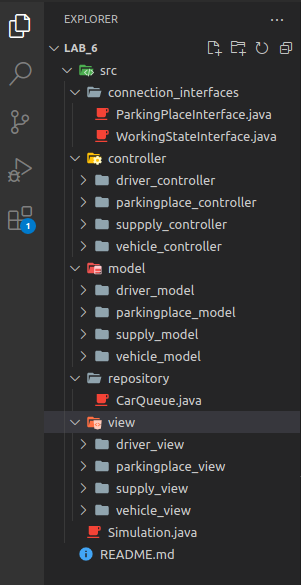
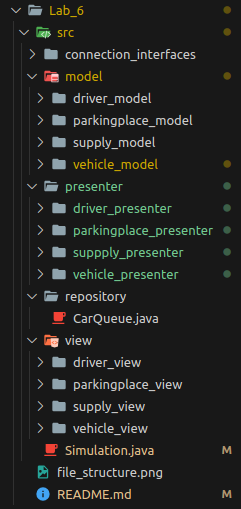
Refactor project file names to represent MVP model.

diff --git a/Lab_6/src/presenter/suppply_presenter/ParkingPresenter.java b/Lab_6/src/presenter/suppply_presenter/ParkingPresenter.java
@@ -1,13 +1,14 @@
-package controller.suppply_controller;
+package presenter.suppply_presenter;
 
 import java.util.List;
 import java.util.Random;
 
 import connection_interfaces.WorkingStateInterface;
-import controller.parkingplace_controller.*;
-import controller.parkingplace_controller.ElectricParkingPlaceController;
 import model.supply_model.*;
 import model.vehicle_model.*;
+import presenter.parkingplace_presenter.DisabilityParkingPlacePresenter;
+import presenter.parkingplace_presenter.ElectricParkingPlacePresenter;
+import presenter.parkingplace_presenter.ParkingPlacePresenter;
 import model.driver_model.Driver;
 import model.parkingplace_model.*;
 import view.parkingplace_view.*;
@@ -15,27 +16,27 @@ import view.driver_view.*;
 import view.vehicle_view.*;
 import view.supply_view.*;
 
-public class ParkingController implements WorkingStateInterface {
+public class ParkingPresenter implements WorkingStateInterface {
 
     private PaymentTerminalView paymentTerminalView;
-    private PaymentTerminalController paymentTerminalController;
+    private PaymentTerminalPresenter paymentTerminalController;
 
     private ElevatorView elevatorView;
-    private ElevatorController elevatorController;
+    private ElevatorPresenter elevatorController;
 
     private GateView gateView;
-    private GateController gateController;
+    private GatePresenter gateController;
 
     private ParkingPlaceView parkingPlaceView;
-    private ParkingPlaceController parkingPlaceController;
+    private ParkingPlacePresenter parkingPlaceController;
 
     private ElectricParkingPlaceView electricParkingPlaceView;
-    private ElectricParkingPlaceController electricParkingPlaceController;
+    private ElectricParkingPlacePresenter electricParkingPlaceController;
 
-    private DisabilityParkingPlaceController disabilityParkingPlaceController;
+    private DisabilityParkingPlacePresenter disabilityParkingPlaceController;
 
     private LevelView levelView;
-    private LevelController levelController;
+    private LevelPresenter levelController;
 
     private CarView carView;
     private DriverView driverView;
@@ -43,29 +44,29 @@ public class ParkingController implements WorkingStateInterface {
     private Parking parking;
     private ParkingView parkingView;
 
-    public ParkingController(Parking parking, ParkingView parkingView) {
+    public ParkingPresenter(Parking parking, ParkingView parkingView) {
         this.parking = parking;
         this.parkingView = parkingView;
 
         paymentTerminalView = new PaymentTerminalView();
-        paymentTerminalController = new PaymentTerminalController(parking.getPaymentTerminal(), paymentTerminalView);
+        paymentTerminalController = new PaymentTerminalPresenter(parking.getPaymentTerminal(), paymentTerminalView);
 
         elevatorView = new ElevatorView();
-        elevatorController = new ElevatorController(parking.getElevator(), elevatorView);
+        elevatorController = new ElevatorPresenter(parking.getElevator(), elevatorView);
 
         gateView = new GateView();
-        gateController = new GateController(parking.getGate(), gateView);
+        gateController = new GatePresenter(parking.getGate(), gateView);
 
         parkingPlaceView = new ParkingPlaceView();
-        parkingPlaceController = new ParkingPlaceController(null, parkingPlaceView);
+        parkingPlaceController = new ParkingPlacePresenter(null, parkingPlaceView);
 
         electricParkingPlaceView = new ElectricParkingPlaceView();
-        electricParkingPlaceController = new ElectricParkingPlaceController(null, electricParkingPlaceView);
+        electricParkingPlaceController = new ElectricParkingPlacePresenter(null, electricParkingPlaceView);
 
-        disabilityParkingPlaceController = new DisabilityParkingPlaceController(null);
+        disabilityParkingPlaceController = new DisabilityParkingPlacePresenter(null);
 
         levelView = new LevelView();
-        levelController = new LevelController(null, levelView);
+        levelController = new LevelPresenter(null, levelView);
 
         carView = new CarView();
 

diff --git a/Lab_6/src/Simulation.java b/Lab_6/src/Simulation.java
@@ -1,9 +1,9 @@
 import java.util.Random;
 import java.util.concurrent.TimeUnit;
 
-import controller.suppply_controller.ParkingController;
 import model.driver_model.*;
 import model.vehicle_model.*;
+import presenter.suppply_presenter.ParkingPresenter;
 import repository.CarQueue;
 import view.supply_view.ParkingView;
 import view.vehicle_view.CarView;
@@ -24,7 +24,7 @@ public class Simulation {
 
     public static final int averageTime = 80;
 
-    private static ParkingController parkingController;
+    private static ParkingPresenter parkingPresenter;
 
     public static void main(String[] args) throws InterruptedException {
         String[] names = { "Dan", "Steve", "Peter", "Andy", "Matthew", "Paul", "Robert", "Angelo" };
@@ -36,7 +36,7 @@ public class Simulation {
 
         Parking parking = new Parking(gate, elevator, paymentTerminal, carQueue);
         ParkingView parkingView = new ParkingView();
-        parkingController = new ParkingController(parking, parkingView);
+        parkingPresenter = new ParkingPresenter(parking, parkingView);
 
         CarView carView = new CarView();
 
@@ -67,7 +67,7 @@ public class Simulation {
             if (entranceTime <= incomePercent * 100) {
                 parking.getCarQueue().addCar(addableCar);
                 System.out.println("\n");
-                if (parkingController.parkTheCar() == 1) {
+                if (parkingPresenter.parkTheCar() == 1) {
                     parking.getCarQueue().removeCar();
                 }
                 System.out.println("\n");
@@ -75,16 +75,16 @@ public class Simulation {
                 System.out.println();
             } else {
                 if (parking.getCars().size() != 0) {
-                    leavingCar = parkingController.removeTheCar();
+                    leavingCar = parkingPresenter.removeTheCar();
                     if (leavingCar instanceof ElectricCar) {
                         System.out.println("\n");
                         TimeUnit.MILLISECONDS.sleep(1000);
-                        parkingController.supplyTheChargers(parking.getLevels());
+                        parkingPresenter.supplyTheChargers(parking.getLevels());
                         TimeUnit.MILLISECONDS.sleep(1000);
                     }
                     TimeUnit.MILLISECONDS.sleep(1000);
                     System.out.println("\n");
-                    parkingController.getPaymentTerminalView()
+                    parkingPresenter.getPaymentTerminalView()
                             .printCurrentCashAmount(parking.getPaymentTerminal().getCashAmount());
                     System.out.println();
                 }
@@ -197,7 +197,7 @@ public class Simulation {
 
         System.out.println();
         while (!parking.getCarQueue().isEmptyOfCars()) {
-            parkingController.parkTheCar();
+            parkingPresenter.parkTheCar();
             parking.getCarQueue().removeCar();
             System.out.println();
         }

diff --git a/Lab_6/src/presenter/parkingplace_presenter/DisabilityParkingPlacePresenter.java b/Lab_6/src/presenter/parkingplace_presenter/DisabilityParkingPlacePresenter.java
@@ -1,25 +1,25 @@
-package controller.parkingplace_controller;
+package presenter.parkingplace_presenter;
 
 import connection_interfaces.ParkingPlaceInterface;
-import controller.driver_controller.DriverController;
-import controller.vehicle_controller.DisabilityCarController;
 import model.parkingplace_model.DisabilityParkingPlace;
 import model.vehicle_model.Car;
 import model.vehicle_model.DisabilityCar;
+import presenter.driver_presenter.DriverPresenter;
+import presenter.vehicle_presenter.DisabilityCarPresenter;
 import view.driver_view.DriverView;
 import view.vehicle_view.DisabilityCarView;
 
-public class DisabilityParkingPlaceController implements ParkingPlaceInterface {
+public class DisabilityParkingPlacePresenter implements ParkingPlaceInterface {
 
     private DriverView driverView = new DriverView();
-    private DriverController driverController = new DriverController(null, driverView);
+    private DriverPresenter driverController = new DriverPresenter(null, driverView);
 
     private DisabilityCarView disabilityCarView = new DisabilityCarView();
-    private DisabilityCarController disabilityCarController = new DisabilityCarController(null, disabilityCarView);
+    private DisabilityCarPresenter disabilityCarController = new DisabilityCarPresenter(null, disabilityCarView);
 
     private DisabilityParkingPlace disabilityParkingPlace;
 
-    public DisabilityParkingPlaceController(DisabilityParkingPlace disabilityParkingPlace) {
+    public DisabilityParkingPlacePresenter(DisabilityParkingPlace disabilityParkingPlace) {
         this.disabilityParkingPlace = disabilityParkingPlace;
     }
 

diff --git a/Lab_6/src/presenter/suppply_presenter/PaymentTerminalPresenter.java b/Lab_6/src/presenter/suppply_presenter/PaymentTerminalPresenter.java
@@ -1,20 +1,20 @@
-package controller.suppply_controller;
+package presenter.suppply_presenter;
 
-import controller.driver_controller.DriverController;
 import model.driver_model.Driver;
 import model.supply_model.PaymentTerminal;
+import presenter.driver_presenter.DriverPresenter;
 import view.driver_view.DriverView;
 import view.supply_view.PaymentTerminalView;
 
-public class PaymentTerminalController {
+public class PaymentTerminalPresenter {
 
     private DriverView driverView = new DriverView();
-    private DriverController driverController = new DriverController(null, driverView);
+    private DriverPresenter driverController = new DriverPresenter(null, driverView);
 
     private PaymentTerminal paymentTerminal;
     private PaymentTerminalView paymentTerminalView;
 
-    public PaymentTerminalController(PaymentTerminal paymentTerminal, PaymentTerminalView paymentTerminalView) {
+    public PaymentTerminalPresenter(PaymentTerminal paymentTerminal, PaymentTerminalView paymentTerminalView) {
         this.paymentTerminal = paymentTerminal;
         this.paymentTerminalView = paymentTerminalView;
     }

diff --git a/Lab_6/src/presenter/parkingplace_presenter/ElectricParkingPlacePresenter.java b/Lab_6/src/presenter/parkingplace_presenter/ElectricParkingPlacePresenter.java
@@ -1,4 +1,4 @@
-package controller.parkingplace_controller;
+package presenter.parkingplace_presenter;
 
 import connection_interfaces.ParkingPlaceInterface;
 import model.parkingplace_model.ElectricParkingPlace;
@@ -7,14 +7,14 @@ import model.vehicle_model.ElectricCar;
 import view.parkingplace_view.ElectricParkingPlaceView;
 import view.vehicle_view.ElectricCarView;
 
-public class ElectricParkingPlaceController implements ParkingPlaceInterface {
+public class ElectricParkingPlacePresenter implements ParkingPlaceInterface {
 
     ElectricCarView electricCarView = new ElectricCarView();
 
     private ElectricParkingPlace electricParkingPlace;
     private ElectricParkingPlaceView electricParkingPlaceView;
 
-    public ElectricParkingPlaceController(ElectricParkingPlace electricParkingPlace,
+    public ElectricParkingPlacePresenter(ElectricParkingPlace electricParkingPlace,
             ElectricParkingPlaceView electricParkingPlaceView) {
         this.electricParkingPlace = electricParkingPlace;
         this.electricParkingPlaceView = electricParkingPlaceView;

diff --git a/Lab_6/src/presenter/parkingplace_presenter/ParkingPlacePresenter.java b/Lab_6/src/presenter/parkingplace_presenter/ParkingPlacePresenter.java
@@ -1,16 +1,16 @@
-package controller.parkingplace_controller;
+package presenter.parkingplace_presenter;
 
 import connection_interfaces.ParkingPlaceInterface;
 import model.parkingplace_model.ParkingPlace;
 import model.vehicle_model.Car;
 import view.parkingplace_view.ParkingPlaceView;
 
-public class ParkingPlaceController implements ParkingPlaceInterface {
+public class ParkingPlacePresenter implements ParkingPlaceInterface {
 
     private ParkingPlace parkingPlace;
     private ParkingPlaceView parkingPlaceView;
 
-    public ParkingPlaceController(ParkingPlace parkingPlace, ParkingPlaceView parkingPlaceView) {
+    public ParkingPlacePresenter(ParkingPlace parkingPlace, ParkingPlaceView parkingPlaceView) {
         this.parkingPlace = parkingPlace;
         this.parkingPlaceView = parkingPlaceView;
     }

diff --git a/Lab_6/src/presenter/vehicle_presenter/DisabilityCarPresenter.java b/Lab_6/src/presenter/vehicle_presenter/DisabilityCarPresenter.java
@@ -1,14 +1,14 @@
-package controller.vehicle_controller;
+package presenter.vehicle_presenter;
 
 import model.vehicle_model.DisabilityCar;
 import view.vehicle_view.DisabilityCarView;
 
-public class DisabilityCarController {
+public class DisabilityCarPresenter {
 
     private DisabilityCar disabilityCar;
     private DisabilityCarView disabilityCarView;
 
-    public DisabilityCarController(DisabilityCar disabilityCar, DisabilityCarView disabilityCarView) {
+    public DisabilityCarPresenter(DisabilityCar disabilityCar, DisabilityCarView disabilityCarView) {
         this.disabilityCar = disabilityCar;
         this.disabilityCarView = disabilityCarView;
     }

diff --git a/Lab_6/src/presenter/suppply_presenter/ElevatorPresenter.java b/Lab_6/src/presenter/suppply_presenter/ElevatorPresenter.java
@@ -1,16 +1,16 @@
-package controller.suppply_controller;
+package presenter.suppply_presenter;
 
 import model.supply_model.Elevator;
 import model.supply_model.Level;
 import model.vehicle_model.Car;
 import view.supply_view.ElevatorView;
 
-public class ElevatorController {
+public class ElevatorPresenter {
 
     private Elevator elevator;
     private ElevatorView elevatorView;
 
-    public ElevatorController(Elevator elevator, ElevatorView elevatorView) {
+    public ElevatorPresenter(Elevator elevator, ElevatorView elevatorView) {
         this.elevator = elevator;
         this.elevatorView = elevatorView;
     }

diff --git a/Lab_6/src/presenter/suppply_presenter/GatePresenter.java b/Lab_6/src/presenter/suppply_presenter/GatePresenter.java
@@ -1,15 +1,15 @@
-package controller.suppply_controller;
+package presenter.suppply_presenter;
 
 import connection_interfaces.WorkingStateInterface;
 import model.supply_model.Gate;
 import view.supply_view.GateView;
 
-public class GateController implements WorkingStateInterface {
+public class GatePresenter implements WorkingStateInterface {
 
     private Gate gate;
     private GateView gateView;
 
-    public GateController(Gate gate, GateView gateView) {
+    public GatePresenter(Gate gate, GateView gateView) {
         this.gate = gate;
         this.gateView = gateView;
     }

diff --git a/Lab_6/src/presenter/suppply_presenter/LevelPresenter.java b/Lab_6/src/presenter/suppply_presenter/LevelPresenter.java
@@ -1,4 +1,4 @@
-package controller.suppply_controller;
+package presenter.suppply_presenter;
 
 import java.util.List;
 
@@ -6,12 +6,12 @@ import model.parkingplace_model.ParkingPlace;
 import model.supply_model.Level;
 import view.supply_view.LevelView;
 
-public class LevelController {
+public class LevelPresenter {
 
   private Level level;
   private LevelView levelView;
 
-  public LevelController(Level level, LevelView levelView) {
+  public LevelPresenter(Level level, LevelView levelView) {
     this.level = level;
     this.levelView = levelView;
   }

diff --git a/Lab_6/src/presenter/driver_presenter/DriverPresenter.java b/Lab_6/src/presenter/driver_presenter/DriverPresenter.java
@@ -1,14 +1,14 @@
-package controller.driver_controller;
+package presenter.driver_presenter;
 
 import model.driver_model.Driver;
 import view.driver_view.DriverView;
 
-public class DriverController {
+public class DriverPresenter {
 
     private Driver driver;
     private DriverView driverView;
 
-    public DriverController(Driver driver, DriverView driverView) {
+    public DriverPresenter(Driver driver, DriverView driverView) {
         this.driver = driver;
         this.driverView = driverView;
     }

diff --git a/Lab_6/README.md b/Lab_6/README.md
@@ -1,6 +1,6 @@
 # MULTI-LEVEL PARKING SIMULATION (PART 5 - REFACTORING)
 
-<p align = justify> At the fifth stage of developing my parking simulation I applied, first of all, <b><i>SOLID</i></b> principles to make my code look better and be more precise. Also I restructured my project so that it corresponds to the <b><i>MVC</i></b> architectural pattern. New classes therefore were introduced and divided into three main categories (<b><i>Model, View, Controller</i></b>) and two additional (<b><i>ConnectionInterfaces, Repository</i></b>).</p>
+<p align = justify> At the fifth stage of developing my parking simulation I applied, first of all, <b><i>SOLID</i></b> principles to make my code look better and be more precise. Also I restructured my project so that it corresponds to the <b><i>MVP</i></b> architectural pattern. New classes therefore were introduced and divided into three main categories (<b><i>Model, View, Presenter</i></b>) and two additional (<b><i>ConnectionInterfaces, Repository</i></b>).</p>
 
 <p align = justify> For almost all the classes I created model classes, then assigned a controller if it was necessary and then added a view. Some of the controllers are more "global" and contain other low-level controllers. The full file structure will be presented on the screenshot below. </p>
 
